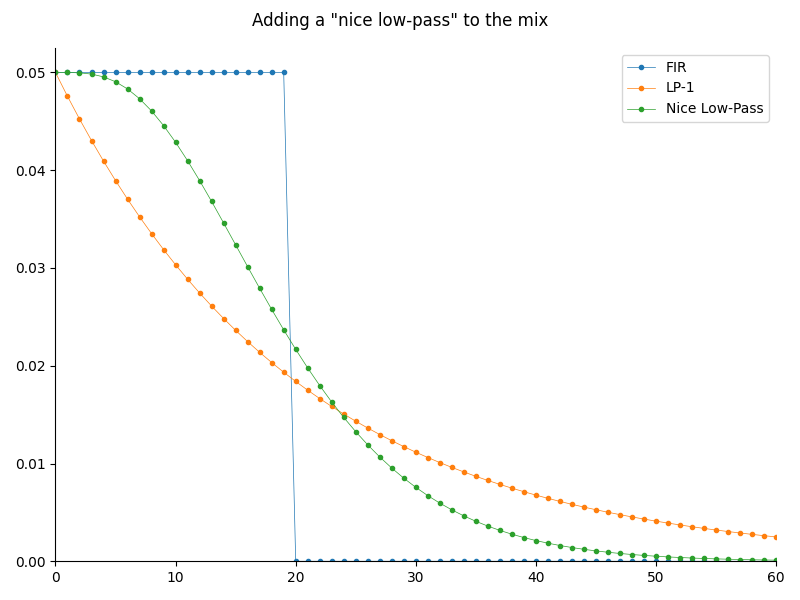
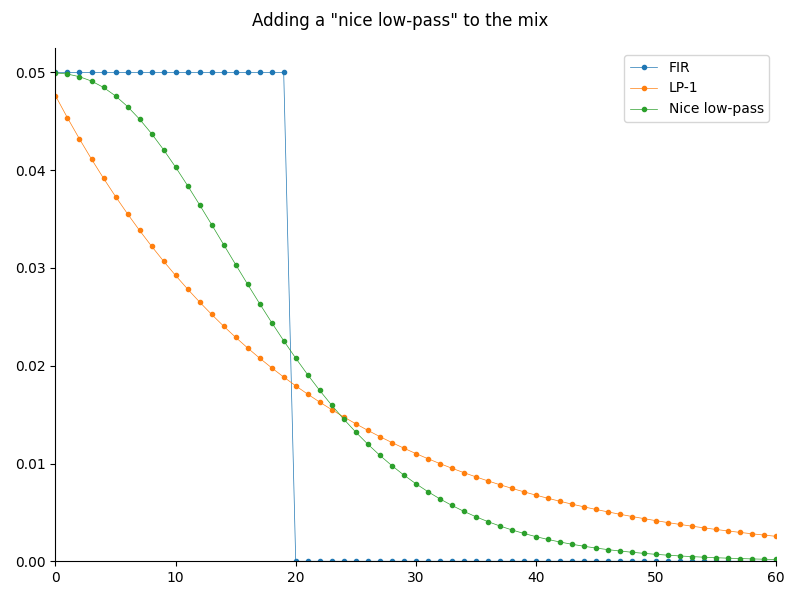
NLP WIP

diff --git a/src/python/nice_lowpass.py b/src/python/nice_lowpass.py
@@ -7,7 +7,7 @@ from src.python.zero_pole import ZeroPole, ZeroPoleType
 
 
 # impulse responses
-type = ZeroPoleType.ANALOG
+type = ZeroPoleType.DIGITAL
 T = 60
 tau = 20
 t = np.arange(T+1)
@@ -60,7 +60,7 @@ fig, ax = plt.subplots(figsize=figsize)
 fig.suptitle('Adding a "nice low-pass" to the mix')
 ax.plot(t, y_sma, marker=marker, drawstyle=drawstyle, lw=lw, label=f'FIR')
 ax.plot(t, lp1.impulse(T+1), marker=marker, drawstyle=drawstyle, lw=lw, label=f'LP-1')
-ax.plot(t, nlp4.impulse(T+1), marker=marker, drawstyle=drawstyle, lw=lw, label=f'Nice Low-Pass')
+ax.plot(t, nlp4.impulse(T+1), marker=marker, drawstyle=drawstyle, lw=lw, label=f'Nice low-pass')
 finalize_plot(tau=tau, file_name="sma+ema+nlp4.png")
 
 # # NLPs

diff --git a/src/python/zero_pole.py b/src/python/zero_pole.py
@@ -354,7 +354,7 @@ class ZeroPole:
                 poles=[-tau],
             )
         elif type == ZeroPoleType.DIGITAL:
-            # H(z1) = h / (tau+h - tau*z1)
+            # H(z^-1) = h / (tau+h - tau*z^-1)
             return ZeroPole.digital(
                 gain=1 / (tau + 1),
                 zeros=[],
